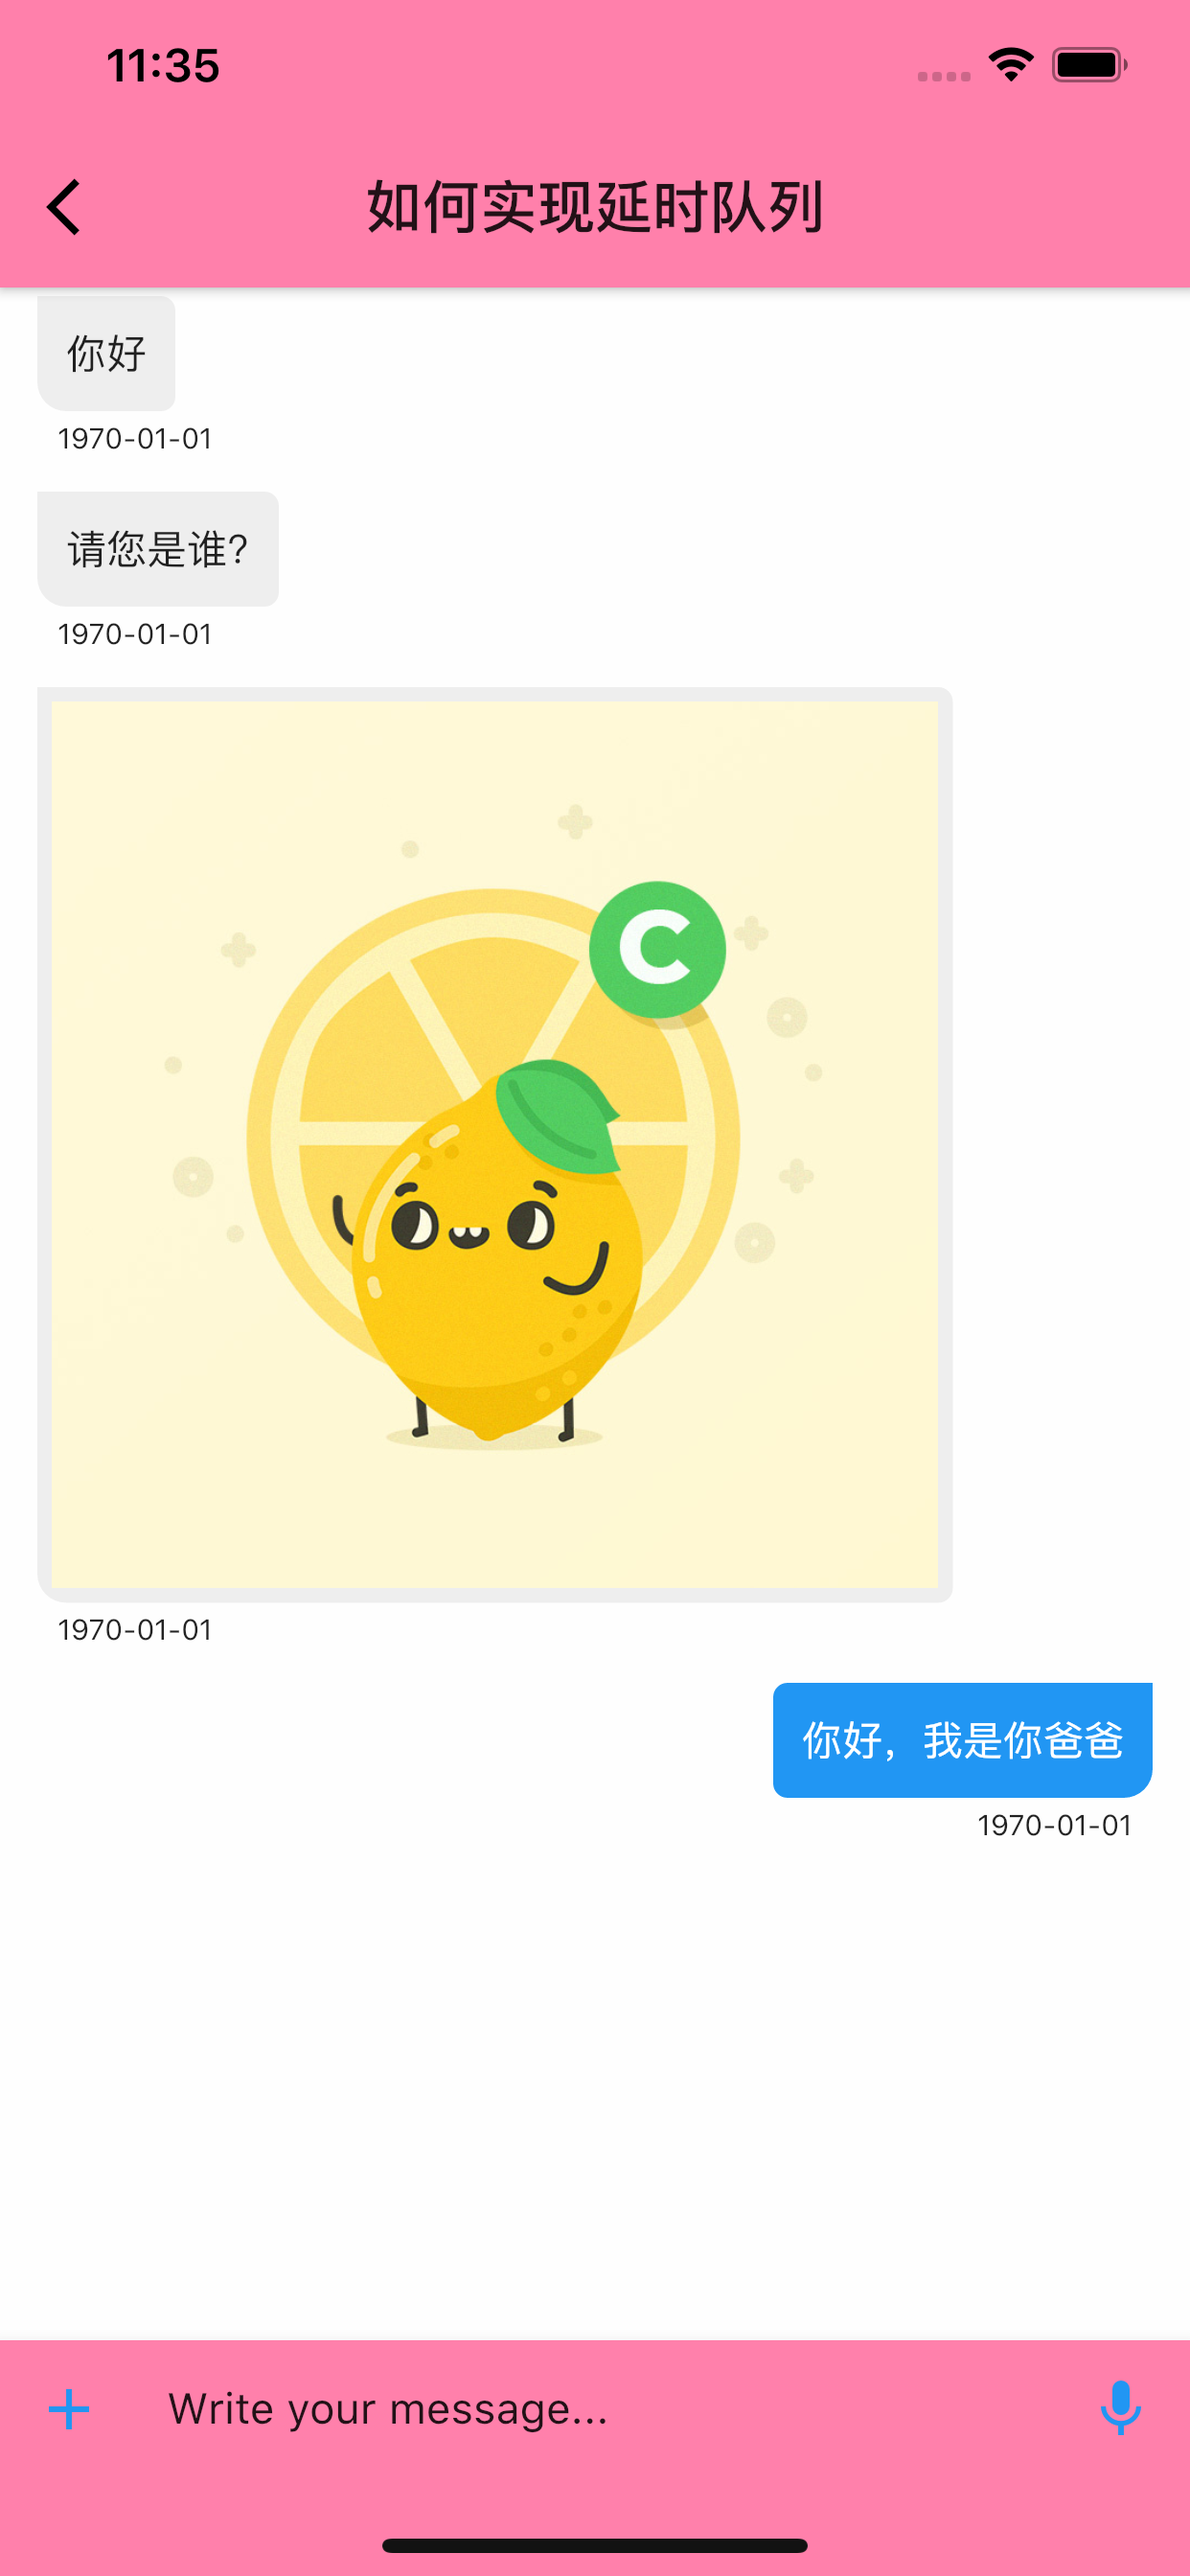
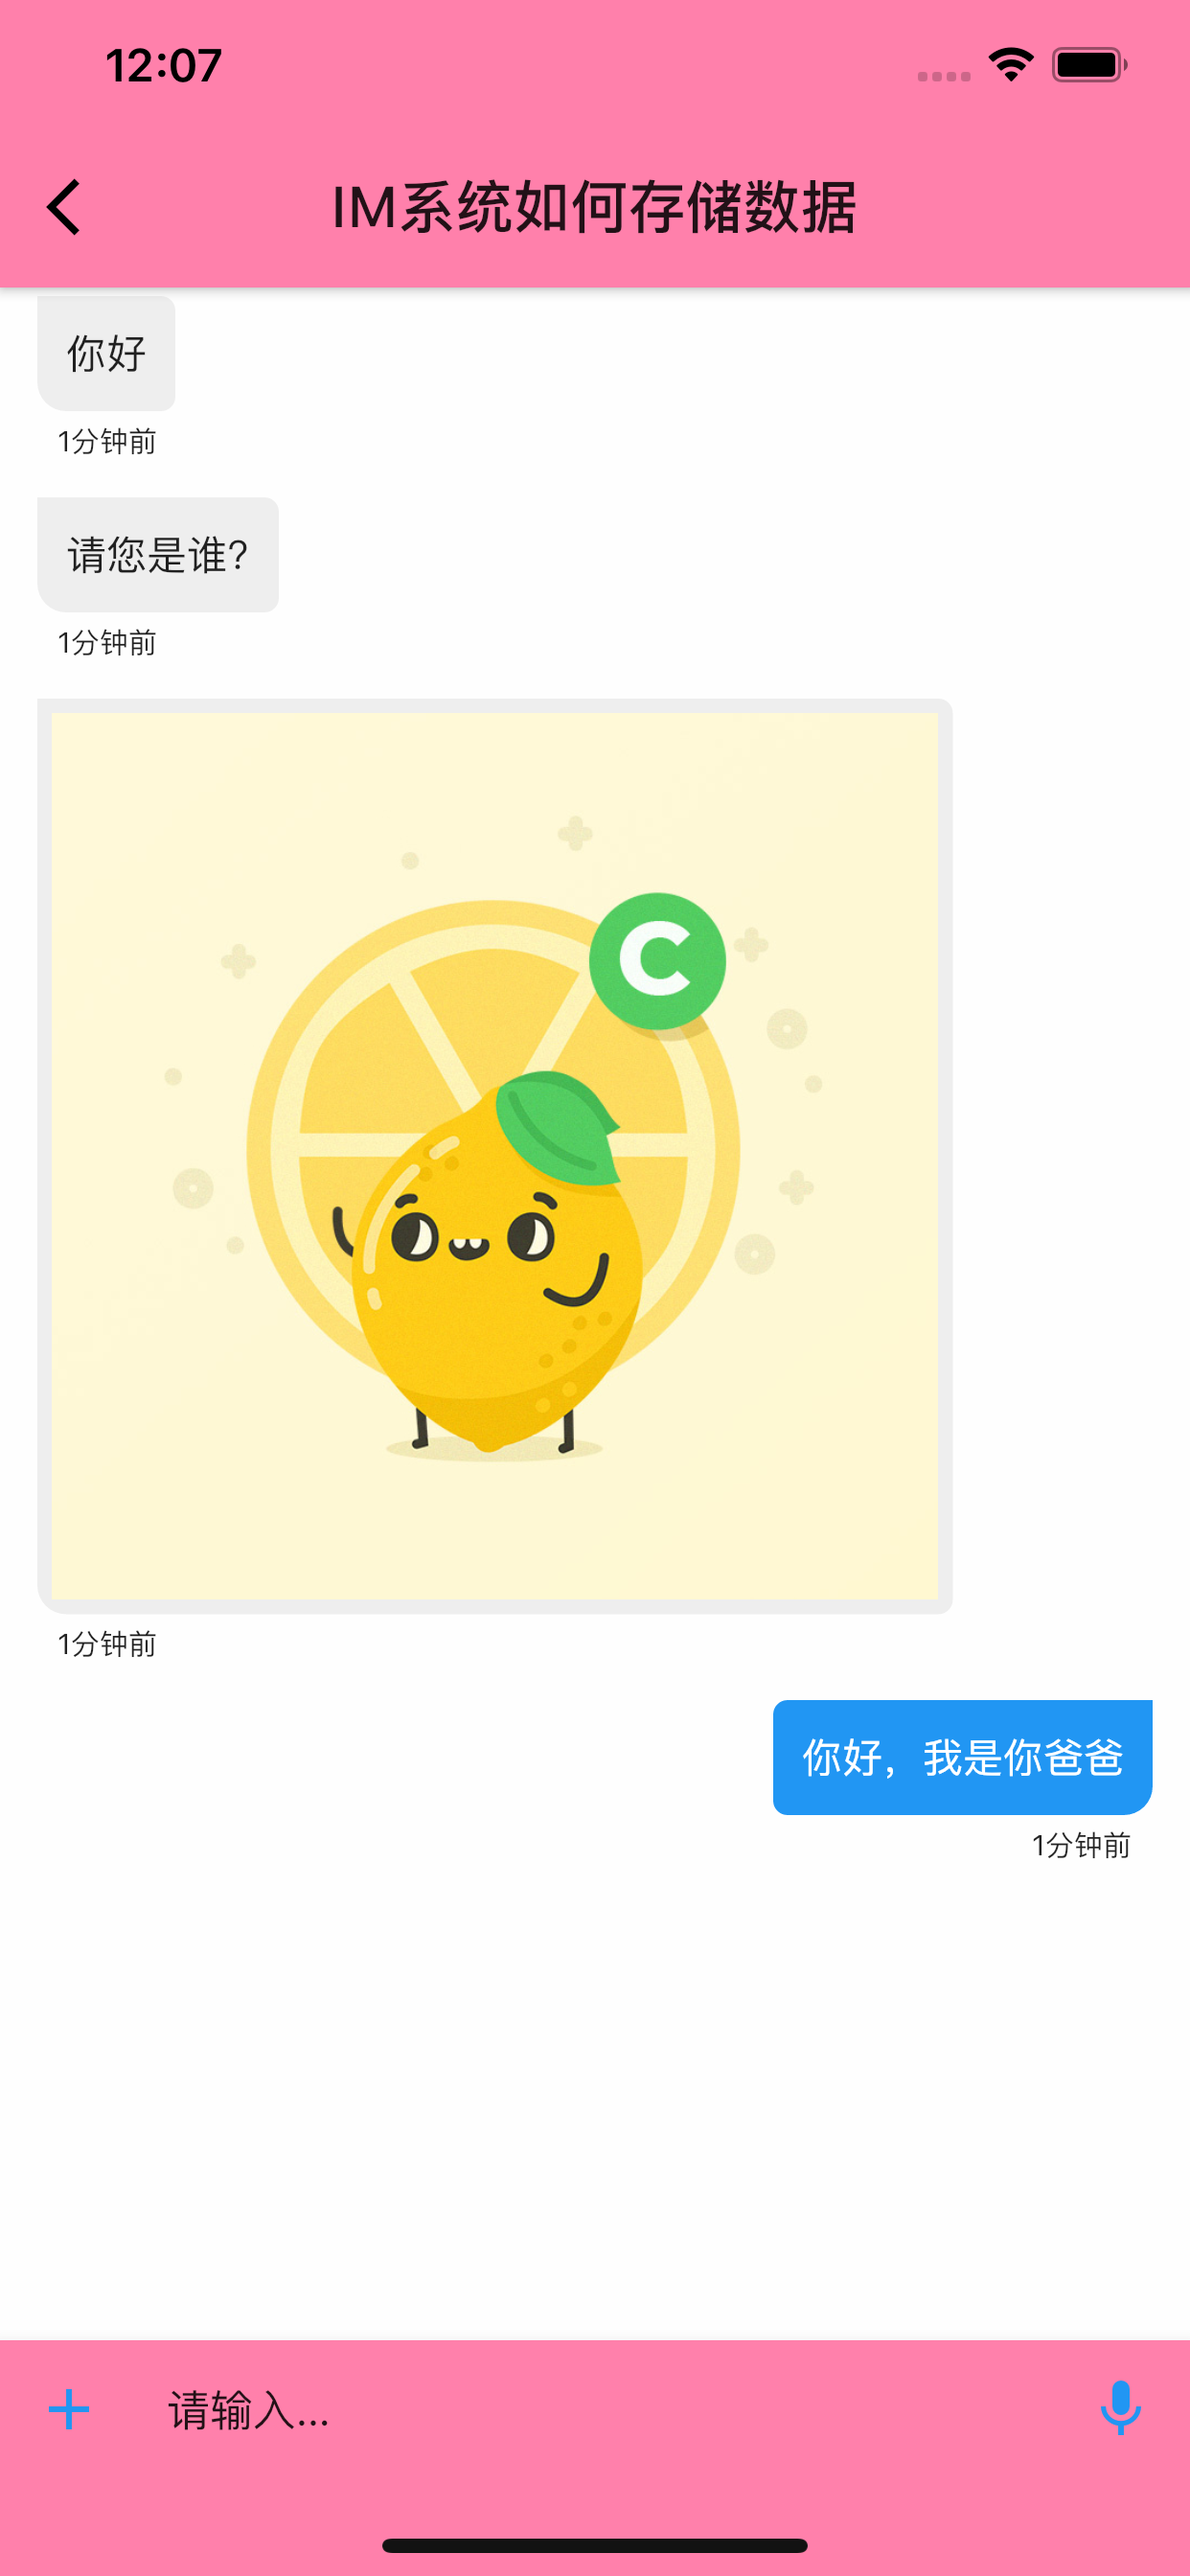
fix时间

diff --git a/lib/service/mock_sx_repository.dart b/lib/service/mock_sx_repository.dart
@@ -20,23 +20,18 @@ class MockSXRepository {
     List<Message> messages = List();
     messages
       ..add(Message.fromJson(
-          {'type': 0, 'content': "你好", 'isMe': false, 'time': 123456}))
+          {'type': 0, 'content': "你好", 'isMe': false, 'time': 1598846749000}))
       ..add(Message.fromJson(
-          {'type': 0, 'content': '请您是谁?', 'isMe': false, 'time': 123456}))
+          {'type': 0, 'content': '请您是谁?', 'isMe': false, 'time': 1598846749000}))
       ..add(Message.fromJson({
         'type': 1,
         'content':
             'https://i1.hdslb.com/bfs/face/046edcb046a97ab421dce0ed8cb36be447ae1f28.jpg',
         'isMe': false,
-        'time': 123456
+        'time': 1598846749000
       }))
-      ..add(Message.fromJson({
-        'type': 0,
-        'content':
-            '你好，我是你爸爸',
-        'isMe': true,
-        'time': 123456
-      }));
+      ..add(Message.fromJson(
+          {'type': 0, 'content': '你好，我是你爸爸', 'isMe': true, 'time': 1598846749000}));
 
     return Future.value(messages);
   }
@@ -51,7 +46,7 @@ class MockSXRepository {
             'https://i1.hdslb.com/bfs/face/046edcb046a97ab421dce0ed8cb36be447ae1f28.jpg',
         'title': '如何实现延时队列',
         'lastestMsg': '怎么说?',
-        'time': 123455,
+        'time': 1598846749000,
         'unread': 10,
       }))
       ..add(DiscussGroup.fromJson({
@@ -61,7 +56,7 @@ class MockSXRepository {
             'https://i1.hdslb.com/bfs/face/046edcb046a97ab421dce0ed8cb36be447ae1f28.jpg',
         'title': 'RocketMQ如何存储消息',
         'lastestMsg': '怎么说?',
-        'time': 123455,
+        'time': 1598846749000,
         'unread': 10,
       }))
       ..add(DiscussGroup.fromJson({
@@ -71,7 +66,7 @@ class MockSXRepository {
             'https://i1.hdslb.com/bfs/face/046edcb046a97ab421dce0ed8cb36be447ae1f28.jpg',
         'title': 'flutter布局详解',
         'lastestMsg': '怎么说?',
-        'time': 123455,
+        'time': 1598846749000,
         'unread': 10,
       }))
       ..add(DiscussGroup.fromJson({
@@ -81,7 +76,7 @@ class MockSXRepository {
             'https://i1.hdslb.com/bfs/face/046edcb046a97ab421dce0ed8cb36be447ae1f28.jpg',
         'title': 'Golang GMP调度',
         'lastestMsg': '怎么说?',
-        'time': 123455,
+        'time': 1598846749000,
         'unread': 10,
       }))
       ..add(DiscussGroup.fromJson({
@@ -91,7 +86,7 @@ class MockSXRepository {
             'https://i1.hdslb.com/bfs/face/046edcb046a97ab421dce0ed8cb36be447ae1f28.jpg',
         'title': 'IM系统如何存储数据',
         'lastestMsg': '怎么说?',
-        'time': 123455,
+        'time': 1598846749000,
         'unread': 10,
       }));
 

diff --git a/lib/ui/page/tab/comunity.dart b/lib/ui/page/tab/comunity.dart
@@ -80,47 +80,3 @@ class _CommunityPageState extends State<CommunityPage>
   @override
   bool get wantKeepAlive => true;
 }
-
-List chats = List.generate(
-    13,
-    (index) => {
-          "name": names[random.nextInt(10)],
-          "dp": "assets/cm${random.nextInt(10)}.jpeg",
-          "msg": messages[random.nextInt(10)],
-          "counter": random.nextInt(20),
-          "time": "${random.nextInt(50)} min ago",
-          "isOnline": random.nextBool(),
-        });
-
-Random random = Random();
-
-List names = [
-  "Ling Waldner",
-  "Gricelda Barrera",
-  "Lenard Milton",
-  "Bryant Marley",
-  "Rosalva Sadberry",
-  "Guadalupe Ratledge",
-  "Brandy Gazda",
-  "Kurt Toms",
-  "Rosario Gathright",
-  "Kim Delph",
-  "Stacy Christensen",
-];
-
-List messages = [
-  "Hey, how are you doing?",
-  "Are you available tomorrow?",
-  "It's late. Go to bed!",
-  "This cracked me up 😂😂",
-  "Flutter Rocks!!!",
-  "The last rocket🚀",
-  "Griezmann signed for Barca❤❤",
-  "Will you be attending the meetup tomorrow?",
-  "Are you angry at something?",
-  "Let's make a UI serie.",
-  "Can i hear your voice?",
-];
-
-List types = ["text", "image"];
-

diff --git a/lib/ui/widget/discuss_group_item.dart b/lib/ui/widget/discuss_group_item.dart
@@ -1,3 +1,4 @@
+import 'package:flustars/flustars.dart';
 import 'package:flutter/cupertino.dart';
 import 'package:flutter/material.dart';
 import 'package:sx_app/model/disscuss_group.dart';
@@ -71,7 +72,8 @@ class _DiscussGroupItemState extends State<DiscussGroupItem> {
           children: <Widget>[
             SizedBox(height: 10),
             Text(
-              "${discussGroup.time}",
+              TimelineUtil.format(discussGroup.time,
+                  locale: 'zh', dayFormat: DayFormat.Simple),
               style: TextStyle(
                 fontWeight: FontWeight.w300,
                 fontSize: 11,

diff --git a/lib/ui/page/chat/conversation_page.dart b/lib/ui/page/chat/conversation_page.dart
@@ -76,7 +76,7 @@ class _ConversationPageState extends State<ConversationPage> {
                             contentPadding: EdgeInsets.all(10.0),
                             border: InputBorder.none,
                             enabledBorder: InputBorder.none,
-                            hintText: "Write your message...",
+                            hintText: "请输入...",
                             hintStyle: TextStyle(
                               fontSize: 15.0,
                               color: Theme.of(context).textTheme.title.color,

diff --git a/lib/ui/widget/chat_bubble.dart b/lib/ui/widget/chat_bubble.dart
@@ -79,7 +79,8 @@ class _ChatBubbleState extends State<ChatBubble> {
                   bottom: 10.0,
                 ),
           child: Text(
-            TimelineUtil.format(message.time),
+            TimelineUtil.format(message.time,
+                locale: 'zh', dayFormat: DayFormat.Simple),
             style: TextStyle(
               color: Theme.of(context).textTheme.title.color,
               fontSize: 10.0,
